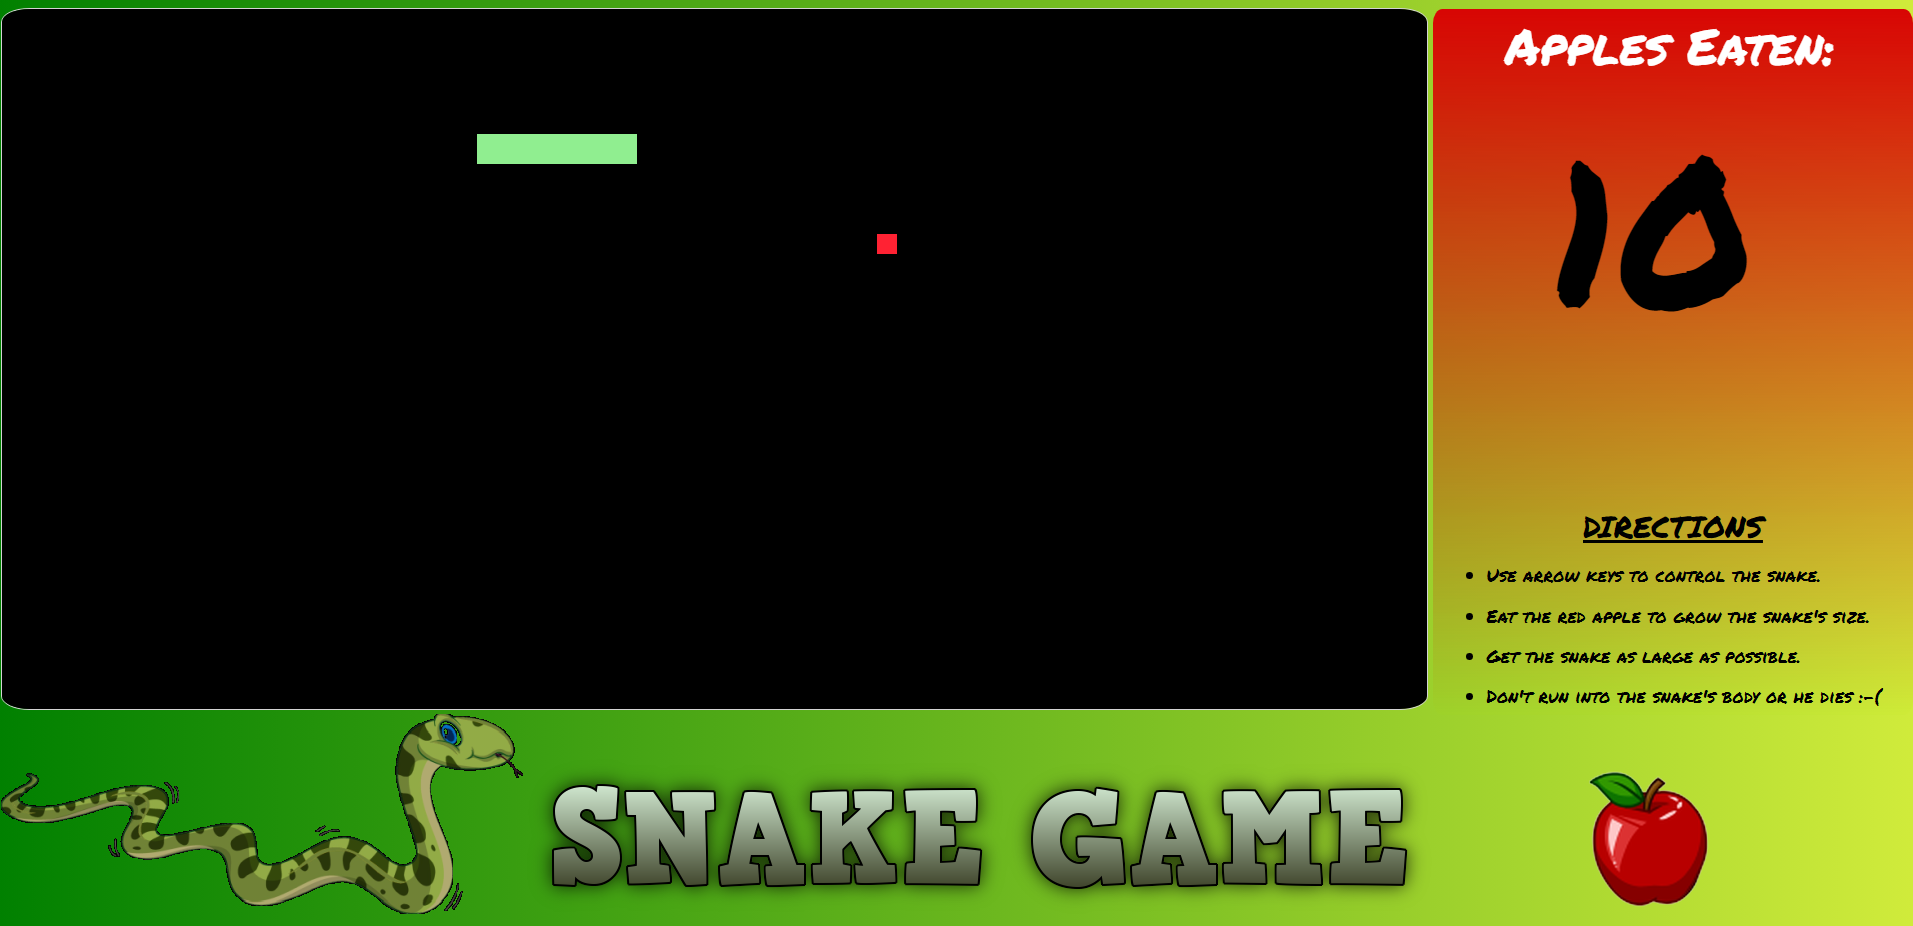
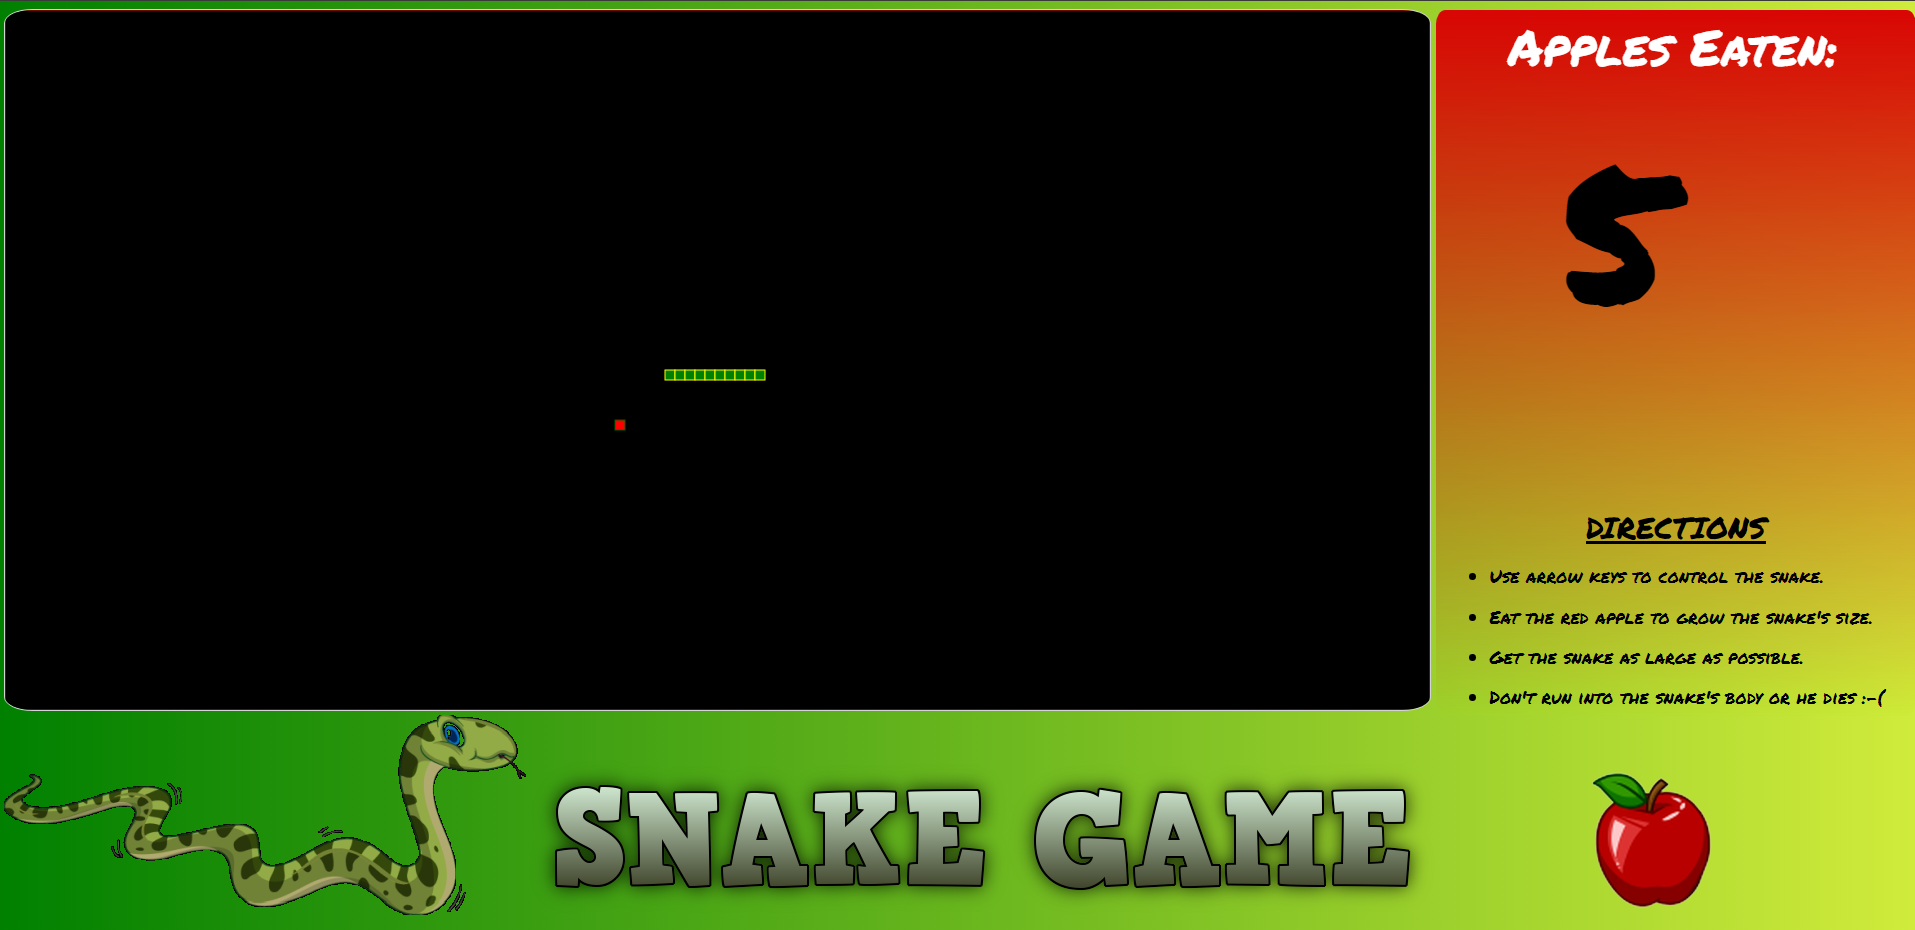
final build of snake, all working MVP

diff --git a/snake.js b/snake.js
@@ -1,0 +1,141 @@
+const board_border = 'red';
+const board_background = "black";
+const snake_col = 'green';
+const snake_border = 'yellow';
+let score = 0;
+let dx = 10;
+let dy = 0;
+let changing_direction = false;
+let appleX;
+let appleY;
+const snakeCanvas = document.getElementById("snake-canvas");
+const snakeCanvasCtx = snakeCanvas.getContext("2d");
+
+let snake = [
+  {x: 200, y: 200},
+  {x: 190, y: 200},
+  {x: 180, y: 200},
+  {x: 170, y: 200},
+  {x: 160, y: 200}
+]
+
+main();
+
+gen_food();
+
+document.addEventListener("keydown", changeDirection);
+
+function main() {
+
+    if (has_game_ended()) return alert('Game Over!');
+
+    changing_direction = false;
+    setTimeout(function onTick() {
+    clearCanvas();
+    drawFood();
+    moveSnake();
+    drawSnake();
+
+    main();
+  }, 50)
+}
+
+function clearCanvas() {
+  snakeCanvasCtx.fillStyle = board_background;
+  snakeCanvasCtx.strokeStyle = board_border;
+  snakeCanvasCtx.fillRect(0, 0, snakeCanvas.width, snakeCanvas.height);
+  snakeCanvasCtx.strokeRect(0, 0, snakeCanvas.width, snakeCanvas.height);
+}
+
+function drawSnake() {
+  snake.forEach(drawSnakePart)
+}
+
+function drawFood() {
+    snakeCanvasCtx.fillStyle = 'red';
+    snakeCanvasCtx.strokeStyle = 'darkgreen';
+    snakeCanvasCtx.fillRect(appleX, appleY, 10, 10);
+    snakeCanvasCtx.strokeRect(appleX, appleY, 10, 10);
+  }
+
+function drawSnakePart(snakePart) {
+
+  snakeCanvasCtx.fillStyle = snake_col;
+  snakeCanvasCtx.strokeStyle = snake_border;
+  snakeCanvasCtx.fillRect(snakePart.x, snakePart.y, 10, 10);
+  snakeCanvasCtx.strokeRect(snakePart.x, snakePart.y, 10, 10);
+}
+
+function has_game_ended() {
+    for (let i = 4; i < snake.length; i++) {
+      if (snake[i].x === snake[0].x && snake[i].y === snake[0].y) return true
+    }
+    const hitLeftWall = snake[0].x < 0;
+    const hitRightWall = snake[0].x > snakeCanvas.width - 10;
+    const hitTopWall = snake[0].y < 0;
+    const hitBottomWall = snake[0].y > snakeCanvas.height - 10;
+    return hitLeftWall || hitRightWall || hitTopWall || hitBottomWall
+  }
+
+
+
+function randomApple(min, max) {
+    return Math.round((Math.random() * (max-min) + min) / 10) * 10;
+}
+
+function gen_food() {
+    appleX = randomApple(0, snakeCanvas.width - 10);
+    appleY = randomApple(0, snakeCanvas.height - 10);
+    snake.forEach(function has_snake_eaten_food(part) {
+      const has_eaten = part.x == appleX && part.y == appleY;
+      if (has_eaten) gen_food();
+    });
+  }
+
+function changeDirection(event)
+{
+   const LEFT_ARROW = 37;
+   const RIGHT_ARROW = 39;
+   const UP_ARROW = 38;
+   const DOWN_ARROW = 40;
+
+   if (changing_direction) return;
+   changing_direction = true;
+   const keyPressed = event.keyCode;
+   const goingUp = dy === -10;
+   const goingDown = dy === 10;
+   const goingRight = dx === 10;
+   const goingLeft = dx === -10;
+   if (keyPressed === LEFT_ARROW && !goingRight) {
+     dx = -10;
+     dy = 0;
+   }
+   if (keyPressed === UP_ARROW && !goingDown) {
+     dx = 0;
+     dy = -10;
+   }
+   if (keyPressed === RIGHT_ARROW && !goingLeft) {
+     dx = 10;
+     dy = 0;
+   }
+   if (keyPressed === DOWN_ARROW && !goingUp) {
+     dx = 0;
+     dy = 10;
+   }
+ }
+
+
+
+
+ function moveSnake() {
+    const head = {x: snake[0].x + dx, y: snake[0].y + dy};
+    snake.unshift(head);
+    const has_eaten_food = snake[0].x === appleX && snake[0].y === appleY;
+    if (has_eaten_food) {
+      score += 1;
+      document.getElementById('score').innerHTML = score;
+      gen_food();
+    } else {
+      snake.pop();
+    }
+  }

diff --git a/index.html b/index.html
@@ -23,7 +23,7 @@
 
     <div id="scoreboard">
         <div id="apples-eaten">Apples Eaten:</div>
-        <div id="score">10</div>
+        <div id="score">0</div>
         <div>
             <ul>
                 <div id="directions"><u>DIRECTIONS</u></div>
@@ -35,7 +35,7 @@
         </div>
     </div>
 
-    <script src="./script.js"></script>
+    <script src="snake.js"></script>
 </body>
 
 </html>
